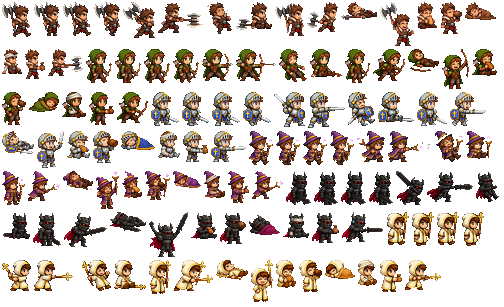
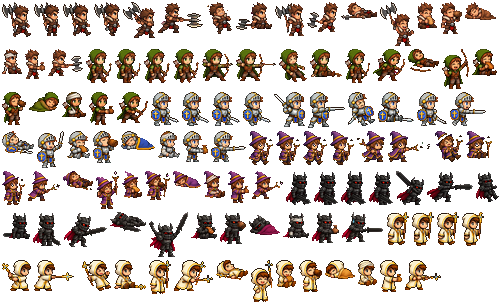
英雄描邊統一深棕(聖騎士/祭司淺色外緣)、高姿勢畫布加高不切頭(另一個工作階段的修正)

diff --git a/src/pixel-world.js b/src/pixel-world.js
@@ -61,10 +61,13 @@ function heroSprite(classId='berserker',frame=0,facing=1,variant=0,lodScale=hero
   // 武器往外伸就把畫布加寬,人不會因為姿勢不同而忽大忽小。沒有姿勢圖就用待機圖。
   const pf=pose!=='idle'&&hf?heroFrameFor(`${classId}_${pose}`,lodScale):null;
   if(pf&&pf.sc===hf.sc){const key=`${classId}:${pose}:${facing}:${variant%3}:${pf.sc}`;if(spriteCache.has(key))return spriteCache.get(key);
-    const cell=pf.cell,res=pf.sc,H=35*res,k=(H-res)/hf.cell.h,dw=Math.max(1,Math.round(cell.w*k)),dh=Math.max(1,Math.round(cell.h*k)),fx=(cell.foot??cell.w/2)*k;
+    const cell=pf.cell,res=pf.sc,H0=35*res,k=(H0-res)/hf.cell.h,dw=Math.max(1,Math.round(cell.w*k)),dh=Math.max(1,Math.round(cell.h*k)),fx=(cell.foot??cell.w/2)*k;
+    // 畫布高要放得下最高的姿勢(歡呼舉手/舉劍比站姿高 2–10px),不然頭頂被畫布切掉;
+    // 倍率不變(跟站姿同像素密度),只是畫布比較高,所以角色不會忽大忽小。
+    const H=Math.max(H0,dh+res);
     const half=Math.ceil(Math.max(20*res,fx,dw-fx)),c=makeCanvas(half*2,H),g=c.getContext('2d');g.imageSmoothingEnabled=false;g.save();if(facing<0){g.translate(c.width,0);g.scale(-1,1);}
     g.drawImage(pf.img,cell.x,cell.y,cell.w,cell.h,Math.round(half-fx),H-dh,dw,dh);g.restore();
-    g.globalCompositeOperation='source-atop';g.fillStyle=HERO_TINT[variant%3];g.fillRect(0,0,c.width,c.height);heroUse.atlas++;spriteCache.set(key,c);return c;}
+    g.globalCompositeOperation='source-atop';g.fillStyle=HERO_TINT[variant%3];g.fillRect(0,0,c.width,c.height);c.baseH=H0;heroUse.atlas++;spriteCache.set(key,c);return c;}
   // key 要帶 LOD —— 不然放大後快取裡還是 1x 的圖,2x 永遠用不到。
   const key=`${classId}:${frame}:${facing}:${variant%3}:${hf?hf.sc:0}`;
   if(spriteCache.has(key))return spriteCache.get(key);
@@ -86,7 +89,7 @@ function heroSprite(classId='berserker',frame=0,facing=1,variant=0,lodScale=hero
     g.globalCompositeOperation='source-atop';
     g.fillStyle=HERO_TINT[variant%3];g.fillRect(0,0,c.width,c.height);
     g.globalCompositeOperation='source-over';
-    heroUse.atlas++;spriteCache.set(key,c);return c;
+    c.baseH=35*resolution;heroUse.atlas++;spriteCache.set(key,c);return c;
   }
   heroUse.proc++;
   const c=makeCanvas(28,35),g=c.getContext('2d');g.imageSmoothingEnabled=false;
@@ -1056,7 +1059,7 @@ export function createWorld(canvas,{onSelect=()=>{},onPlace=()=>{},getState=()=>
     if(d.type==='fisher'){contact(p,5);if(drawAtlasDetail('fisher',p,28,20,1,1,true)){const s=scale,t=Math.sin(elapsed*1.3);g.globalAlpha=.7;pixel(g,p.x-15*s,p.y+(3+t*.6)*s,4*s,Math.max(1,s*.6),'#cfeeff');g.globalAlpha=1;return;}}
     // 概念圖街上滿是村民與貓狗:純裝飾(不參與模擬),原地輕微上下呼吸。
     if(d.type==='npc'){const bob=Math.sin(elapsed*2.1+d.phase)>.55?1:0,hf=heroFrameFor(d.cls,heroLodScale);contact(p,5);
-      {const sp=heroSprite(d.cls,bob,d.flip?-1:1,Math.floor(d.phase*7)%3,heroLodScale,d.walk?walkFrame(elapsed,d.phase*7):'idle');drawSprite(sp,p,21*CHAR_SCALE*sp.width/sp.height,21*CHAR_SCALE,1.2,1,'char');};if(hf)detailUse.draw1x++;return;}
+      {const sp=heroSprite(d.cls,bob,d.flip?-1:1,Math.floor(d.phase*7)%3,heroLodScale,d.walk?walkFrame(elapsed,d.phase*7):'idle');drawSprite(sp,p,21*CHAR_SCALE*sp.width/(sp.baseH||sp.height),21*CHAR_SCALE*sp.height/(sp.baseH||sp.height),1.2,1,'char');};if(hf)detailUse.draw1x++;return;}
     if(d.type==='villager'){const pet=d.who==='cat'||d.who==='dog',bob=d.walk?(Math.floor(elapsed*6+d.phase)%2):Math.sin(elapsed*2.2+d.phase)>.4?1:0,k=CHAR_SCALE;contact(p,pet?4:5);
       const kid=d.who==='child';if(drawAtlasDetail(d.who,p,(pet?10:kid?13:15)*k,(pet?9:kid?16.5:20)*k,1.2-bob*.4,1,d.flip))return;  // 村民跟英雄同一批風格、同像素密度;小孩矮一截
       pixel(g,p.x-3*scale,p.y-14*scale,6*scale,12*scale,'#8a6a48');pixel(g,p.x-2*scale,p.y-18*scale,4*scale,4*scale,'#f0c9a0');return;}
@@ -1213,7 +1216,7 @@ export function createWorld(canvas,{onSelect=()=>{},onPlace=()=>{},getState=()=>
 
   function ghostHunter(h){if(!(h.hp>0)||h.status!=='戰鬥中'||!Number.isFinite(h.x))return;const p=screenPoint(h.x,h.z);if(p.x<-40||p.x>width+40||p.y<-40||p.y>height+60)return;
     const target=h.targetId?(state.enemies||[]).find(e=>e.id===h.targetId&&e.hp>0):null,pose={...combatPose(h,false,target),flash:0},facing=previousPositions.get(h.id)?.facing||1;
-    const sprite=heroSprite(h.classId,0,facing,hash(h.id)%3,heroLodScale,pose.pose);posed(p,pose,q=>drawSprite(sprite,q,21*CHAR_SCALE*sprite.width/sprite.height,21*CHAR_SCALE,1.2,.38));}
+    const sprite=heroSprite(h.classId,0,facing,hash(h.id)%3,heroLodScale,pose.pose);posed(p,pose,q=>drawSprite(sprite,q,21*CHAR_SCALE*sprite.width/(sprite.baseH||sprite.height),21*CHAR_SCALE*sprite.height/(sprite.baseH||sprite.height),1.2,.38));}
   // 驗收用:每一隻最後一次畫出來的朝向/姿勢(__mistvaleFacing())。
   globalThis.__mistvaleDecor=()=>decorations.map(d=>({type:d.type,x:d.x,z:d.z,size:d.size||1,walk:!!d.walk}));  // 驗收用:擺設清單(check_placement.mjs)
   const drawnFacing=new Map();globalThis.__mistvaleFacing=()=>Object.fromEntries(drawnFacing);
@@ -1223,7 +1226,7 @@ export function createWorld(canvas,{onSelect=()=>{},onPlace=()=>{},getState=()=>
     contact(p,5);if(isSelected)ring(p,8,'#fff1b0');if(wanderer)ring(p,6,'#7fc4ff');  // 藍圈＝流浪英雄(自己打怪,不是我方單位)
     // 倒下:用倒地圖(<職業>_dead),半透明等復活;沒有倒地圖才退回把待機圖轉 90°。
     if(h.dead||h.hp<=0){previousPositions.set(h.id,{x:h.x,z:h.z,facing});drawnFacing.set(h.id,{f:facing,pose:'dead',x:h.x,z:h.z,t:state.time});
-      if(heroFrameFor(`${h.classId}_dead`,heroLodScale)){const sp=heroSprite(h.classId,0,facing,hash(h.id)%3,heroLodScale,'dead');drawSprite(sp,p,21*CHAR_SCALE*sp.width/sp.height,21*CHAR_SCALE,1.2,.75);}
+      if(heroFrameFor(`${h.classId}_dead`,heroLodScale)){const sp=heroSprite(h.classId,0,facing,hash(h.id)%3,heroLodScale,'dead');drawSprite(sp,p,21*CHAR_SCALE*sp.width/(sp.baseH||sp.height),21*CHAR_SCALE*sp.height/(sp.baseH||sp.height),1.2,.75);}
       else{g.save();g.translate(p.x,p.y-3*scale);g.rotate(Math.PI/2);g.globalAlpha=.55;{const sp=heroSprite(h.classId,0,facing,hash(h.id)%3),dw=21*sp.width/sp.height;g.drawImage(sp,-dw/2*scale*CHAR_SCALE,-12*scale*CHAR_SCALE,dw*scale*CHAR_SCALE,21*scale*CHAR_SCALE);}g.restore();}
       textLabel('✦',p.x,p.y-15*scale,{color:'#e7d8ef',back:false});return;}
     const target=h.status==='戰鬥中'&&h.targetId?(state.enemies||[]).find(e=>e.id===h.targetId&&e.hp>0):null,pose=combatPose(h,false,target);
@@ -1241,7 +1244,7 @@ export function createWorld(canvas,{onSelect=()=>{},onPlace=()=>{},getState=()=>
     const combatPoseName=pose.pose==='strike'&&pose.atk>.2&&!['ranger','sorcerer'].includes(h.classId)?'strike2':pose.pose;
     const drawPose=pose.pose!=='idle'?combatPoseName:walking?walkFrame(elapsed,hash(h.id)):cheering?'victory':still&&servicePose?servicePose:breathe;
     drawnFacing.set(h.id,{f:facing,pose:drawPose,x:h.x,z:h.z,t:state.time});
-    const sprite=heroSprite(h.classId,frame,facing,hash(h.id)%3,heroLodScale,drawPose),rect=posed(p,pose,q=>drawSprite(sprite,q,21*CHAR_SCALE*sprite.width/sprite.height,21*CHAR_SCALE,1.2,1,'char'));hits.push({id:`hunter:${h.id}`,...padHit(rect,14,18)});  // 圖變小,點擊範圍保底
+    const sprite=heroSprite(h.classId,frame,facing,hash(h.id)%3,heroLodScale,drawPose),rect=posed(p,pose,q=>drawSprite(sprite,q,21*CHAR_SCALE*sprite.width/(sprite.baseH||sprite.height),21*CHAR_SCALE*sprite.height/(sprite.baseH||sprite.height),1.2,1,'char'));hits.push({id:`hunter:${h.id}`,...padHit(rect,14,18)});  // 圖變小,點擊範圍保底
     chargeGlow(h,p,pose,facing);
     const full=(h.hp??1)/(h.maxHp||1);if(full<.99||isSelected||h.status==='戰鬥中')bar(p.x-7*scale,p.y-24*scale,14*scale,full,full<.35?'#df795c':'#84bf6a');
     if(isSelected)textLabel(`${h.name||'獵人'} Lv.${h.level||1}`,p.x,p.y-31*scale,{color:RARITIES.find(r=>r.id===h.rarity)?.color||'#ffe19a'});
@@ -1329,8 +1332,10 @@ export function createWorld(canvas,{onSelect=()=>{},onPlace=()=>{},getState=()=>
     const cx=p.x+(fromRight?3:-3)*s,cy=p.y-11*s,k=Math.min(1,age/.12),alpha=age<.12?1:Math.max(0,1-(age-.12)/.3);
     // 斬痕:新月從攻擊方掃過目標(放大+淡出),中心白色閃光。
     // fxSlash 圖(Xilurus)＝白色刀弧在左、橙色拖尾在右 → 原圖是「由右往左揮」;攻擊者在左邊(往右揮)才翻面。
-    if(alpha>0)fxSprite('fxSlash',cx,cy,(20+10*k)*(e.cls==='berserker'?1.15:1),{rot:tilt+(fromRight?.3:-.3),flip:!fromRight,alpha,sy:.85});
-    if(age<.16)fxSprite('fxHit',p.x,cy,10+age*60,{alpha:1-age/.16});
+    // 特效尺寸跟角色同級(英雄 21 單位):原本斬痕 30 單位、命中白閃 20 單位會把攻擊者整隻蓋住,
+    // 縮到 20/11 單位、白閃快一點淡出,人才看得見自己在打什麼。
+    if(alpha>0)fxSprite('fxSlash',cx,cy,(13+7*k)*(e.cls==='berserker'?1.15:1),{rot:tilt+(fromRight?.3:-.3),flip:!fromRight,alpha:alpha*.92,sy:.85});
+    if(age<.12)fxSprite('fxHit',p.x,cy,7+age*34,{alpha:.85*(1-age/.12)});
     sparks(p.x,cy,age,hash(e.id),9,['#fff7d0','#ffd56a','#ff9c4a']);
     if(e.cls==='paladin'&&age<.3){g.save();g.globalAlpha=.6*(1-age/.3);g.strokeStyle='#fff2b0';g.lineWidth=Math.max(1,s);g.beginPath();g.ellipse(p.x,p.y,(6+age*40)*s,(2.5+age*16)*s,0,0,Math.PI*2);g.stroke();g.restore();}}
   function drawImpact(e,age,p){const s=scale,cy=p.y-11*s;
@@ -1341,7 +1346,7 @@ export function createWorld(canvas,{onSelect=()=>{},onPlace=()=>{},getState=()=>
     if(e.type==='hit'){const boss=e.by==='boss',src=screenPoint(e.sourceX??e.x,e.sourceZ??e.z),dir=src.x>p.x?-1:1,t=Math.min(1,age/.08),a=age<.08?1:Math.max(0,1-(age-.08)/.3);
       // 爪痕:三道斜線由打來的方向劃過,白芯紅邊
       if(a>0){g.save();g.globalAlpha=a;for(let i=-1;i<=1;i++){const x0=p.x+(i*3-dir*5)*s,y0=cy-(6+i)*s,x1=x0+dir*10*t*s*(boss?1.5:1),y1=y0+9*t*s*(boss?1.5:1);line(g,x0,y0,x1,y1,'#c8322a',Math.max(2,2*s));line(g,x0,y0,x1,y1,'#fff0e0',Math.max(1,s*.8));}g.restore();}
-      if(age<.14)fxSprite('fxHit',p.x,cy,(boss?14:9)+age*40,{alpha:1-age/.14});sparks(p.x,cy,age,hash(e.id),7,['#ffd0b8','#e8584a']);}
+      if(age<.12)fxSprite('fxHit',p.x,cy,(boss?10:7)+age*30,{alpha:.85*(1-age/.12)});sparks(p.x,cy,age,hash(e.id),7,['#ffd0b8','#e8584a']);}
   }
   function drawDeath(e,age,p){const type=e.enemyType||'slime',sz=ENEMY_SIZE(type),s=scale,t=Math.max(0,(age-.1)/.6);
     // 倒下:先第二受擊格(8)一下,再倒地屍體圖(9)躺著淡出;朝向沿用受擊時(面向打倒牠的獵人)。沒有 8/9 格才退回壓扁受擊圖。

diff --git a/pipeline/scripts/xilurus/assemble.py b/pipeline/scripts/xilurus/assemble.py
@@ -191,6 +191,23 @@ POSE_FIX = {"darkknight_walk4": "darkknight_walk2"}
 POSES_B = ["idle2", "strike2", "dead", "victory", "eat", "drink", "sleep", "bandaged", "trade", "train"]
 
 
+def normalize_outline(im: Image.Image, dark=(43, 27, 18)) -> Image.Image:
+    """描邊一致性:剪影外緣的亮色邊(白/淺灰)統一改成風格的深棕描邊。
+
+    l0veyou 生的聖騎士/祭司是白銀/白袍+淺色輪廓,outline 比例 0.28–0.51,
+    其他職業/魔物都是深色描邊(0.6–0.95),同一場景裡看起來像兩套風格。
+    只改最外圈的亮像素(內縮不動),其他顏色不受影響。"""
+    a = np.array(im.convert("RGBA"))
+    al = a[..., 3] > 40
+    inner = np.zeros_like(al)
+    inner[1:-1, 1:-1] = al[1:-1, 1:-1] & al[:-2, 1:-1] & al[2:, 1:-1] & al[1:-1, :-2] & al[1:-1, 2:]
+    edge = al & ~inner
+    lum = 0.299 * a[..., 0] + 0.587 * a[..., 1] + 0.114 * a[..., 2]
+    fix = edge & (lum > 118)
+    a[fix, 0], a[fix, 1], a[fix, 2] = dark
+    return Image.fromarray(a, "RGBA")
+
+
 def heroes():
     from make_sd_heroes import LODS, pack, shrink, foot_x  # 同一套 LOD 高度與打包格式
     got = {}
@@ -214,10 +231,10 @@ def heroes():
         for cls in CLASSES:
             g = got[cls]
             s = h / g[cls].height   # 待機高度 → 34/68/136;同一張表的姿勢用同一個倍率,換姿勢不會忽大忽小
-            hero[cls] = shrink(g[cls], s, False)
+            hero[cls] = normalize_outline(shrink(normalize_outline(g[cls]), s, False))
             for p in POSES + POSES_B:
                 key = f"{cls}_{p}"
-                q = shrink(g[key], s, False)
+                q = normalize_outline(shrink(normalize_outline(g[key]), s, False))
                 pose[key] = q
                 extra[key] = {"foot": round(foot_x(q), 1)}
         pack(hero, f"hero@{tag}", sc, {})
